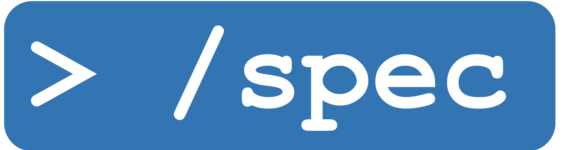
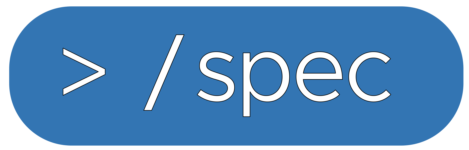
chore: clean up content and assets
- Remove unused custom.css from assets
- Update sidebar-slash-spec.png image
- Clean up front matter formatting in resources post (remove unnecessary quotes)

🤖 Generated with [Claude Code](https://claude.com/claude-code)

diff --git a/content/post/2025-11-01-resources-01/index.md b/content/post/2025-11-01-resources-01/index.md
@@ -1,9 +1,9 @@
 ---
 title: "Resources - Under Construction"
-date: "2025-10-31"
+date: 2025-11-01
 linktitle: resources-under-construction
 slug: resources-under-construction
-thumbnail: "../../images/under-construction.png"
+thumbnail: ../../images/under-construction.png
 weight: 10
 categories:
   - Resources
